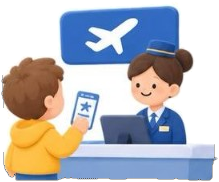
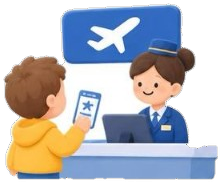
Срезать белый ореол у картинок и собрать ровный край вместо рваного.

diff --git a/index.html b/index.html
@@ -386,39 +386,39 @@
       <path class="branch"/>
     </svg>
     <button class="cp" type="button" data-n="1" data-side="left">
-      <span class="mark" aria-hidden="true"><img src="assets/icon-1.png?v=4" alt=""></span>
+      <span class="mark" aria-hidden="true"><img src="assets/icon-1.png?v=5" alt=""></span>
       <span class="name">На привокзальной площади</span>
     </button>
     <button class="cp" type="button" data-n="2" data-side="right">
-      <span class="mark" aria-hidden="true"><img src="assets/icon-2.png?v=4" alt=""></span>
+      <span class="mark" aria-hidden="true"><img src="assets/icon-2.png?v=5" alt=""></span>
       <span class="name">Входной досмотр</span>
     </button>
     <button class="cp" type="button" data-n="3" data-side="left">
-      <span class="mark" aria-hidden="true"><img src="assets/icon-3.png?v=4" alt=""></span>
+      <span class="mark" aria-hidden="true"><img src="assets/icon-3.png?v=5" alt=""></span>
       <span class="name">Регистрация на рейс</span>
     </button>
     <button class="cp" type="button" data-n="4" data-side="right">
-      <span class="mark" aria-hidden="true"><img src="assets/icon-4.png?v=4" alt=""></span>
+      <span class="mark" aria-hidden="true"><img src="assets/icon-4.png?v=5" alt=""></span>
       <span class="name">Комната матери и ребенка</span>
     </button>
     <button class="cp" type="button" data-n="5" data-side="left">
-      <span class="mark" aria-hidden="true"><img src="assets/icon-5.png?v=4" alt=""></span>
+      <span class="mark" aria-hidden="true"><img src="assets/icon-5.png?v=5" alt=""></span>
       <span class="name">Предполетный досмотр</span>
     </button>
     <button class="cp" type="button" data-n="6" data-side="right">
-      <span class="mark" aria-hidden="true"><img src="assets/icon-6.png?v=4" alt=""></span>
+      <span class="mark" aria-hidden="true"><img src="assets/icon-6.png?v=5" alt=""></span>
       <span class="name">В ожидании вылета</span>
     </button>
     <button class="cp" type="button" data-n="7" data-side="left">
-      <span class="mark" aria-hidden="true"><img src="assets/icon-7.png?v=4" alt=""></span>
+      <span class="mark" aria-hidden="true"><img src="assets/icon-7.png?v=5" alt=""></span>
       <span class="name">Приоритетная посадка</span>
     </button>
     <button class="cp" type="button" data-n="8" data-side="right">
-      <span class="mark" aria-hidden="true"><img src="assets/icon-8.png?v=4" alt=""></span>
+      <span class="mark" aria-hidden="true"><img src="assets/icon-8.png?v=5" alt=""></span>
       <span class="name">Для прилетевших пассажиров</span>
     </button>
     <button class="cp" type="button" data-n="9" data-side="left">
-      <span class="mark" aria-hidden="true"><img src="assets/icon-9.png?v=4" alt=""></span>
+      <span class="mark" aria-hidden="true"><img src="assets/icon-9.png?v=5" alt=""></span>
       <span class="name">Комплексная поддержка пассажиров с детьми</span>
     </button>
   </main>
